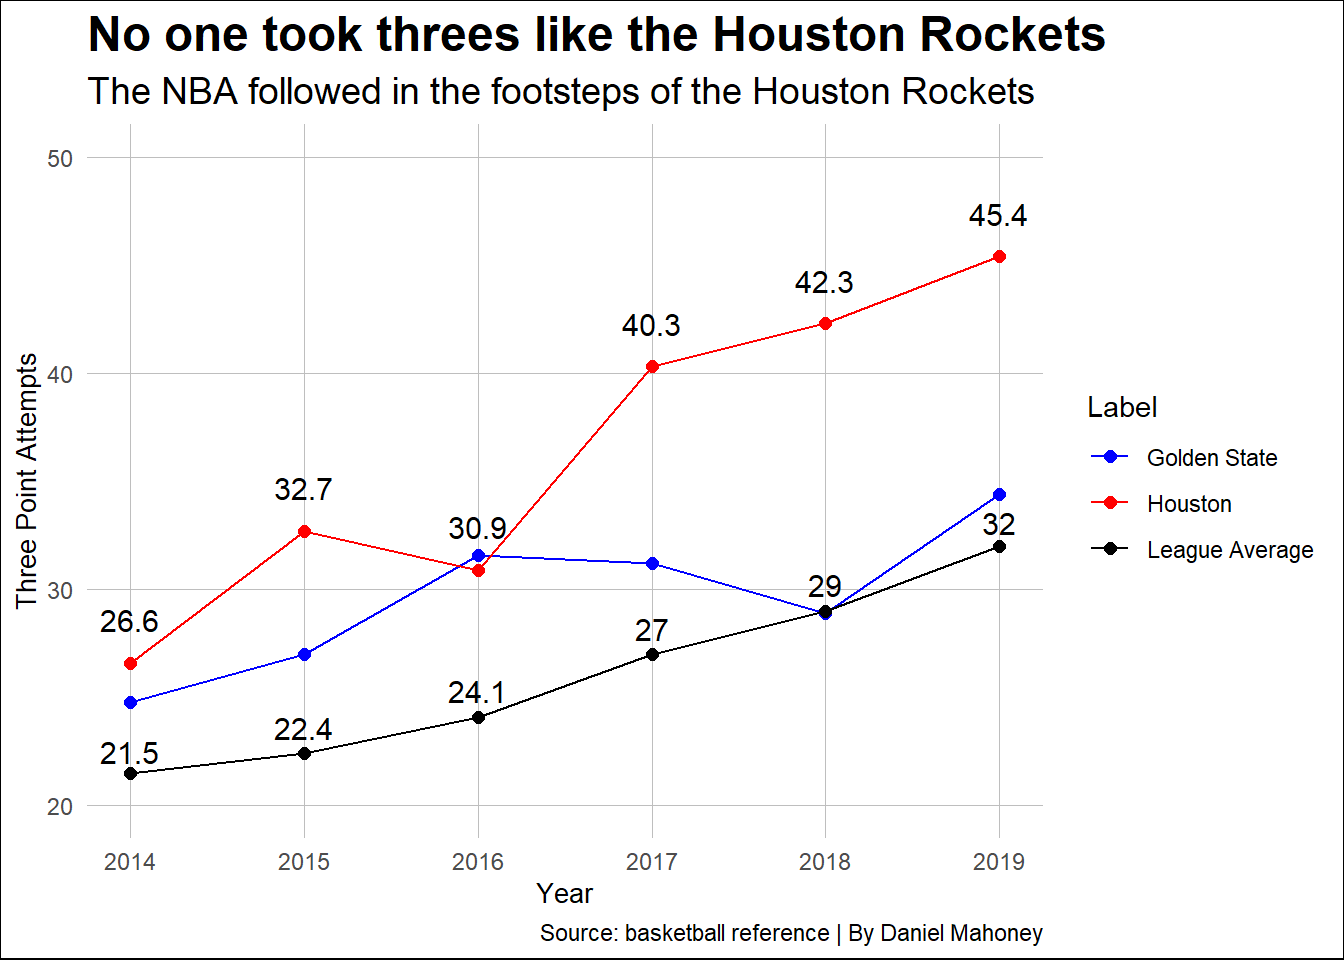
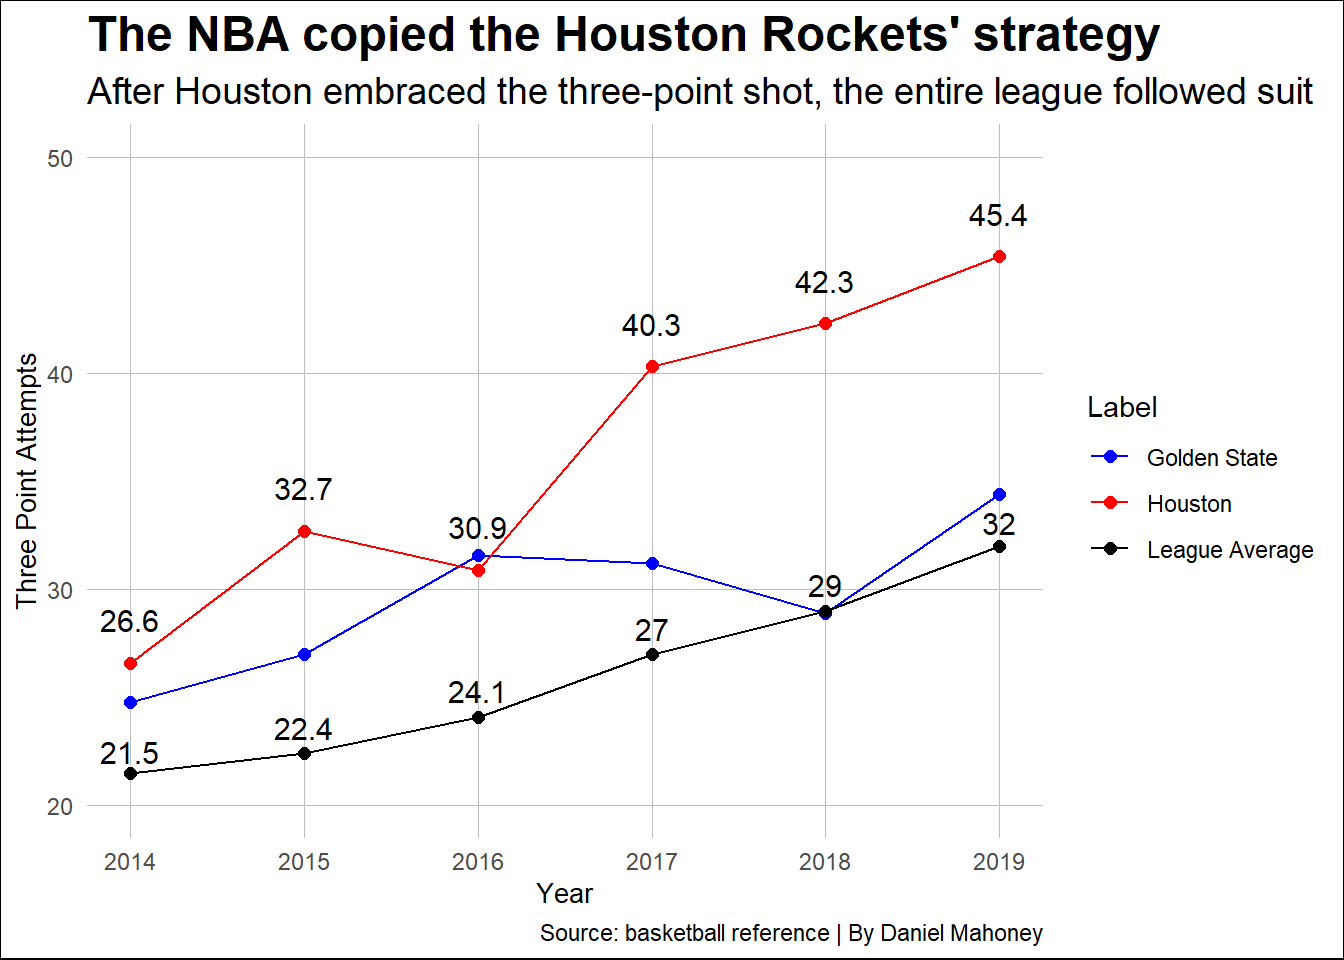
update index.html

Changed region(s): [[0.0625, 0.0, 0.9688, 0.125]]

diff --git a/posts/three-point-revolution/index.html b/posts/three-point-revolution/index.html
@@ -296,8 +296,8 @@ pre > code.sourceCode > span > a:first-child::before { text-decoration: underlin
 <span id="cb2-37"><a href="#cb2-37" aria-hidden="true" tabindex="-1"></a>  <span class="fu">scale_y_continuous</span>(<span class="at">limits =</span> <span class="fu">c</span>(<span class="dv">20</span>, <span class="dv">50</span>)) <span class="sc">+</span></span>
 <span id="cb2-38"><a href="#cb2-38" aria-hidden="true" tabindex="-1"></a>  <span class="fu">labs</span>(</span>
 <span id="cb2-39"><a href="#cb2-39" aria-hidden="true" tabindex="-1"></a>    <span class="at">y =</span> <span class="st">"Three Point Attempts"</span>, <span class="at">x =</span> <span class="st">"Year"</span>,</span>
-<span id="cb2-40"><a href="#cb2-40" aria-hidden="true" tabindex="-1"></a>    <span class="at">title =</span> <span class="st">"No one took threes like the Houston Rockets"</span>,</span>
-<span id="cb2-41"><a href="#cb2-41" aria-hidden="true" tabindex="-1"></a>    <span class="at">subtitle =</span> <span class="st">"The NBA followed in the footsteps of the Houston Rockets"</span>,</span>
+<span id="cb2-40"><a href="#cb2-40" aria-hidden="true" tabindex="-1"></a>    <span class="at">title =</span> <span class="st">"The NBA copied the Houston Rockets' strategy"</span>,</span>
+<span id="cb2-41"><a href="#cb2-41" aria-hidden="true" tabindex="-1"></a>    <span class="at">subtitle =</span> <span class="st">"After Houston embraced the three-point shot, the entire league followed suit"</span>,</span>
 <span id="cb2-42"><a href="#cb2-42" aria-hidden="true" tabindex="-1"></a>    <span class="at">caption =</span> <span class="st">"Source: basketball reference | By Daniel Mahoney"</span>,</span>
 <span id="cb2-43"><a href="#cb2-43" aria-hidden="true" tabindex="-1"></a>    <span class="at">color =</span> <span class="st">"Label"</span></span>
 <span id="cb2-44"><a href="#cb2-44" aria-hidden="true" tabindex="-1"></a>  ) <span class="sc">+</span></span>

diff --git a/index.html b/index.html
@@ -205,7 +205,7 @@ window.Quarto = {
 
 <div class="quarto-listing quarto-listing-container-default" id="listing-listing">
 <div class="list quarto-listing-default">
-<div class="quarto-post image-right" data-index="0" data-categories="YmFza2V0YmFsbCxuYmEsc3RlcGg=" data-listing-date-sort="1733205600000" data-listing-file-modified-sort="1733772577900" data-listing-date-modified-sort="NaN" data-listing-reading-time-sort="15" data-listing-word-count-sort="2867">
+<div class="quarto-post image-right" data-index="0" data-categories="YmFza2V0YmFsbCxuYmEsc3RlcGg=" data-listing-date-sort="1733205600000" data-listing-file-modified-sort="1733773247879" data-listing-date-modified-sort="NaN" data-listing-reading-time-sort="15" data-listing-word-count-sort="2867">
 <div class="thumbnail">
 <p><a href="./posts/three-point-revolution/index.html" class="no-external"></a></p><a href="./posts/three-point-revolution/index.html" class="no-external">
 <p><img loading="lazy" src="./posts/three-point-revolution/image.png" class="thumbnail-image"></p>
